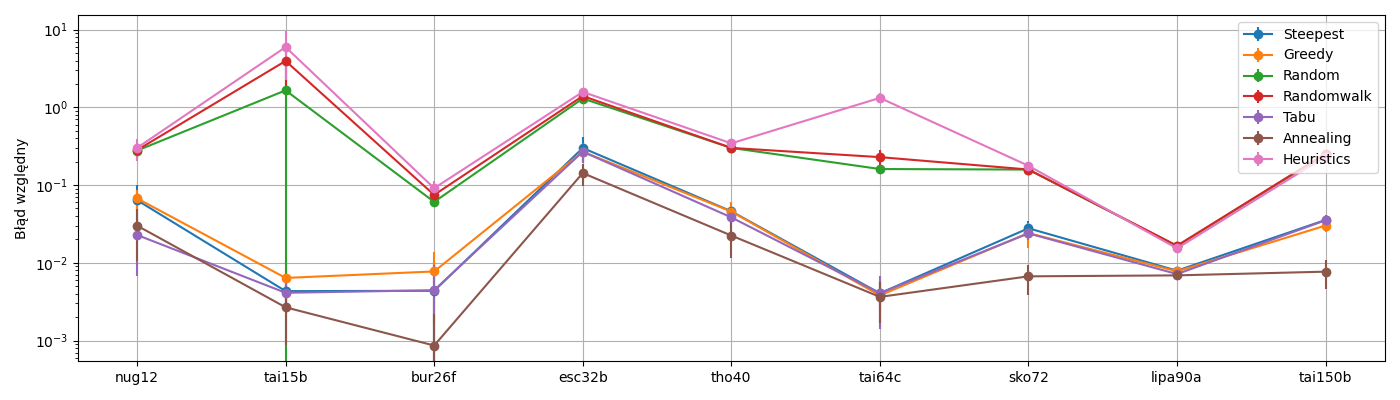
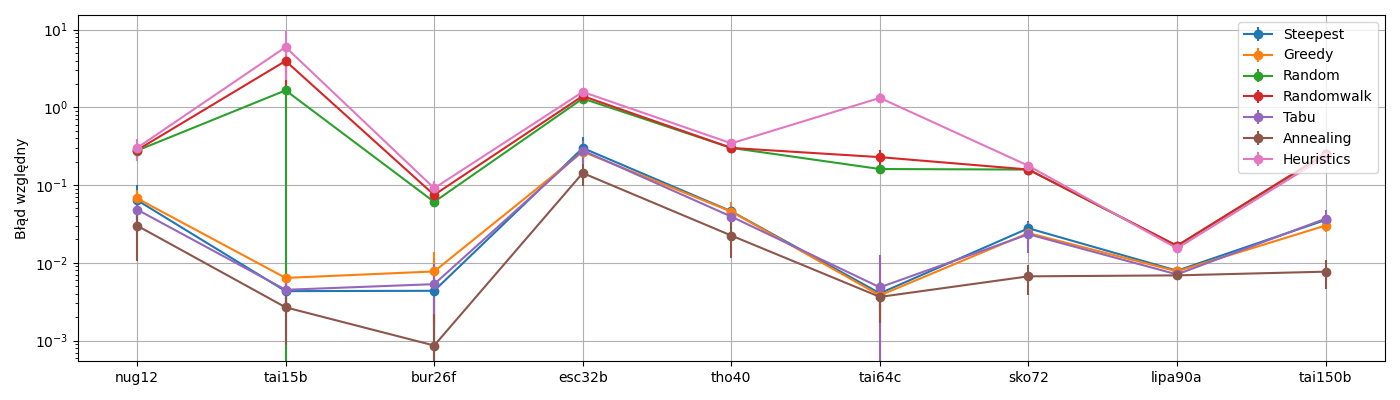
New ploting for point 5

diff --git a/Ploting/point_6.py b/Ploting/point_6.py
@@ -196,14 +196,14 @@ def plot_without_std(results, y_label, name, out_path, full=True, size=(14, 4), 
            [item[1]['RANDOMWALK'] for item in results.items()], '-o',
            label='Randomwalk')
     ax.plot(x,
-           [item[1]['HEURISTICS'] for item in results.items()], '-o',
-           label='Heuristics')
-    ax.plot(x,
             [item[1]['TABU'] for item in results.items()], '-o',
             label='Tabu')
     ax.plot(x,
             [item[1]['ANNEALING'] for item in results.items()], '-o',
             label='Annealing' )
+    ax.plot(x,
+           [item[1]['HEURISTICS'] for item in results.items()], '-o',
+           label='Heuristics')
 
     ax.set_ylabel(y_label)
     if log:
@@ -218,7 +218,7 @@ def plot_without_std(results, y_label, name, out_path, full=True, size=(14, 4), 
 
 
 if __name__ == '__main__':
-    data = pd.read_csv('point_6-3.csv')
+    data = pd.read_csv('point_6-5.csv')
     data[TIME_MS] = data[TIME_MS].replace(0, 1.2)
 
     point_2(data)

diff --git a/Ploting/point_5.py b/Ploting/point_5.py
@@ -121,7 +121,6 @@ def plot_best(results, y_label, name):
     fig.savefig(OUT + name)
     plt.close(fig)
 
-
 if __name__ == '__main__':
     data = pd.read_csv('point_5.csv')
     compare_solutions(data)
